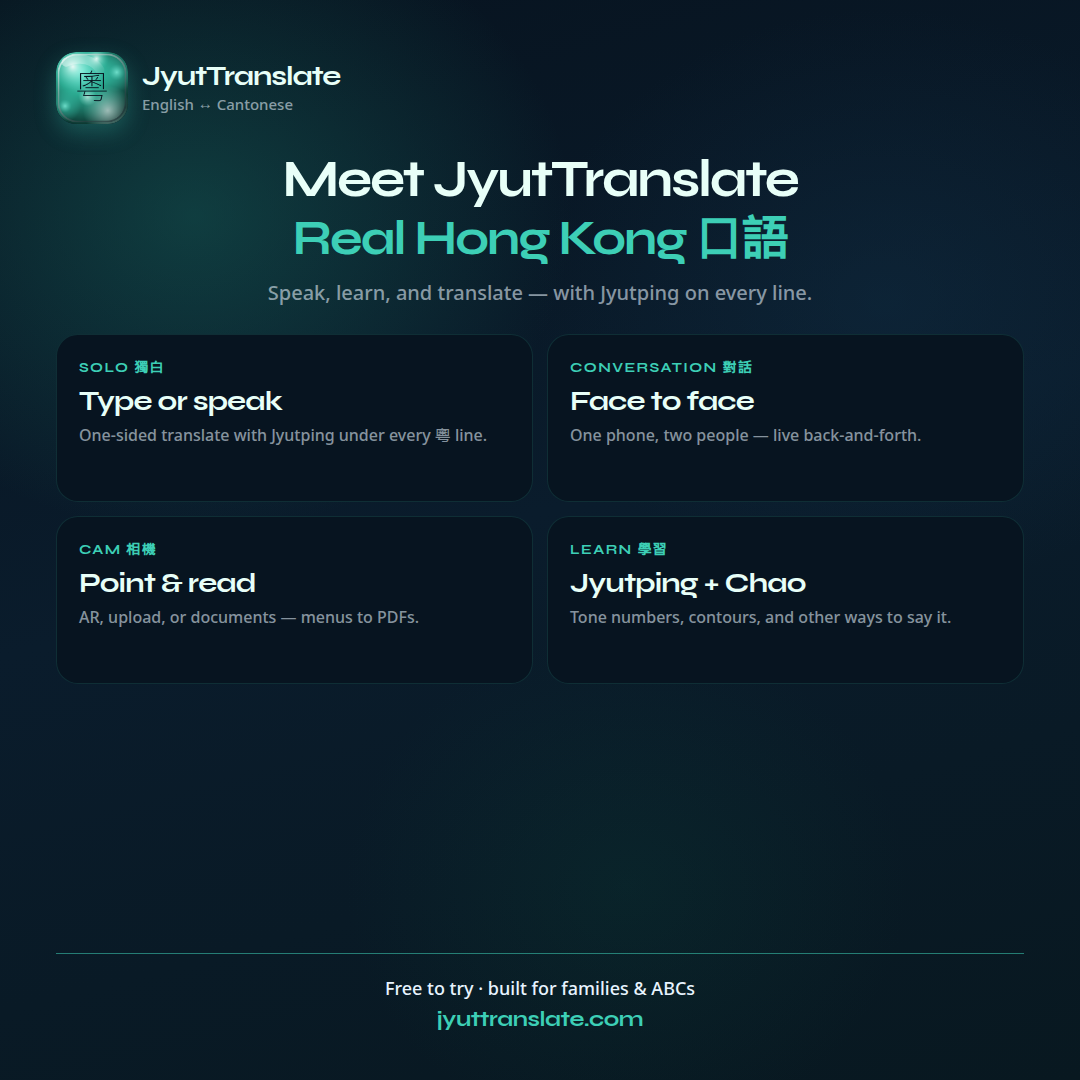
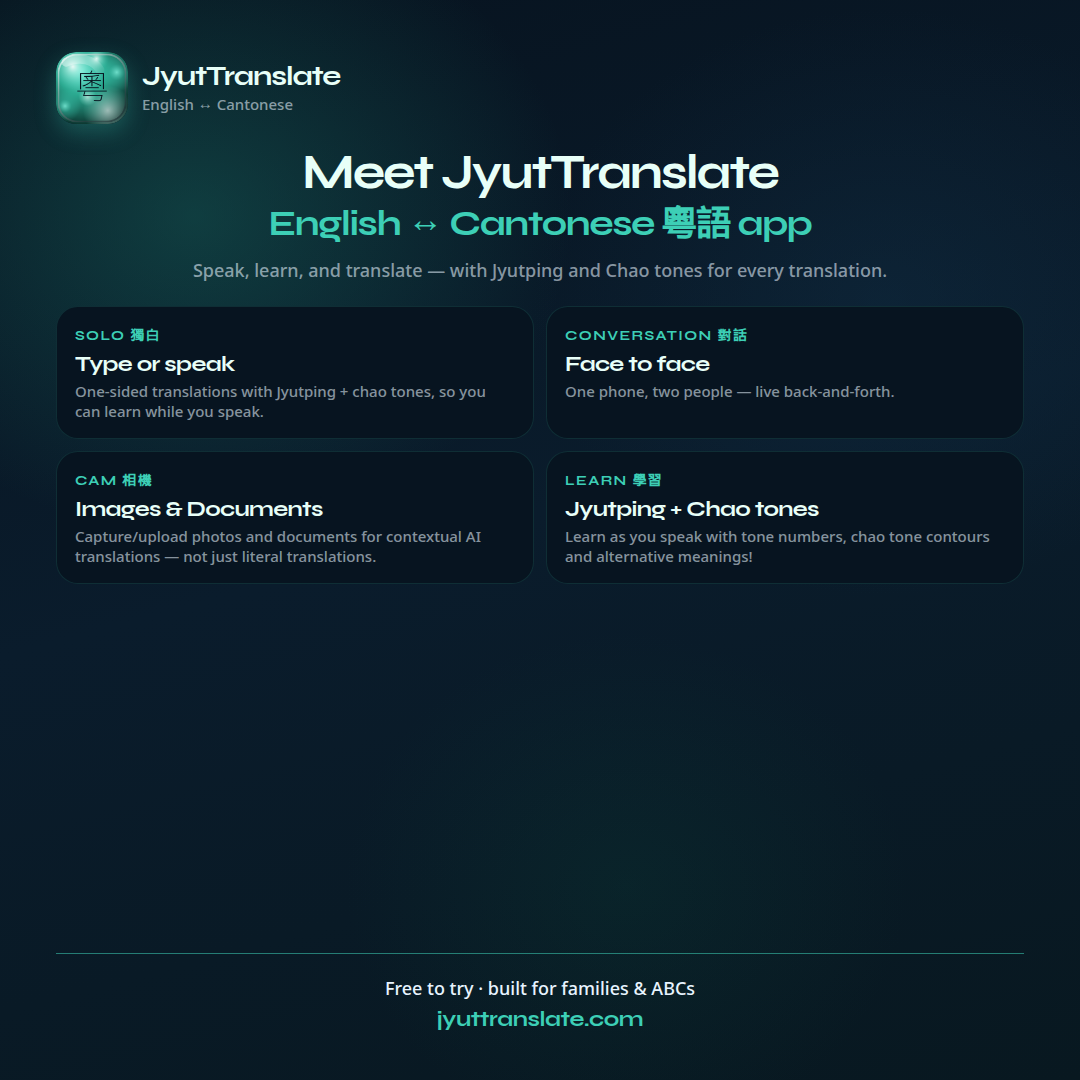
Revise intro IG copy: drop Real Hong Kong, clarify modes.
Accent both formats to English ↔ Cantonese 粵語 app; tighten square tile copy for Cam/Learn density; portrait uses 婆婆 vs 書面 and Cam file types.

Changed region(s): [[0.0611, 0.1222, 0.825, 0.5806], [0.5194, 0.3056, 0.9167, 0.5806]]

diff --git a/docs/social/ig-posts/intro-square.html b/docs/social/ig-posts/intro-square.html
@@ -10,7 +10,7 @@
   <body>
     <div class="font-preload" aria-hidden="true">
       <span class="font-preload-syne">JyutTranslate Meet J</span>
-      <span class="font-preload-hk">粵獨白對話相機口語粵拼你返唔返嚟食飯㗎</span>
+      <span class="font-preload-hk">粵獨白對話相機口語粵拼學習書面語婆婆</span>
       <span class="font-preload-noto">ABCDEFGHIJKLMNOPQRSTUVWXYZabcdefghijklmnopqrstuvwxyz0123456789↔</span>
     </div>
 
@@ -25,15 +25,15 @@
 
       <div class="hero hero--intro">
         <h1>Meet JyutTranslate</h1>
-        <div class="accent">Real Hong Kong 口語</div>
-        <p>Speak, learn, and translate — with Jyutping on every line.</p>
+        <div class="accent">English ↔ Cantonese 粵語 app</div>
+        <p>Speak, learn, and translate — with Jyutping and Chao tones for every translation.</p>
       </div>
 
       <div class="mode-grid" aria-label="App modes">
         <div class="mode-tile">
           <div class="mode-kicker">Solo 獨白</div>
           <div class="mode-title">Type or speak</div>
-          <p>One-sided translate with Jyutping under every 粵 line.</p>
+          <p>One-sided translations with Jyutping + chao tones, so you can learn while you speak.</p>
         </div>
         <div class="mode-tile">
           <div class="mode-kicker">Conversation 對話</div>
@@ -42,13 +42,13 @@
         </div>
         <div class="mode-tile">
           <div class="mode-kicker">Cam 相機</div>
-          <div class="mode-title">Point &amp; read</div>
-          <p>AR, upload, or documents — menus to PDFs.</p>
+          <div class="mode-title">Images &amp; Documents</div>
+          <p>Capture/upload photos and documents for contextual AI translations — not just literal translations.</p>
         </div>
         <div class="mode-tile">
           <div class="mode-kicker">Learn 學習</div>
-          <div class="mode-title">Jyutping + Chao</div>
-          <p>Tone numbers, contours, and other ways to say it.</p>
+          <div class="mode-title">Jyutping + Chao tones</div>
+          <p>Learn as you speak with tone numbers, chao tone contours and alternative meanings!</p>
         </div>
       </div>
 

diff --git a/docs/social/ig-posts/intro-portrait.html b/docs/social/ig-posts/intro-portrait.html
@@ -10,7 +10,7 @@
   <body>
     <div class="font-preload" aria-hidden="true">
       <span class="font-preload-syne">JyutTranslate Meet J</span>
-      <span class="font-preload-hk">粵獨白對話相機口語粵拼你返唔返嚟食飯㗎學習書面語係唔喺咗</span>
+      <span class="font-preload-hk">粵獨白對話相機口語粵拼你返唔返嚟食飯㗎學習書面語係唔喺咗婆婆</span>
       <span class="font-preload-noto">ABCDEFGHIJKLMNOPQRSTUVWXYZabcdefghijklmnopqrstuvwxyz0123456789↔</span>
     </div>
 
@@ -25,8 +25,8 @@
 
       <div class="hero">
         <h1>Meet JyutTranslate</h1>
-        <div class="accent">English ↔ Cantonese</div>
-        <p>The app for real Hong Kong 口語 — not textbook Chinese.</p>
+        <div class="accent">English ↔ Cantonese 粵語 app</div>
+        <p>Most apps give you 書面. We give you what 婆婆 is actually saying.</p>
       </div>
 
       <div class="feat-list">
@@ -34,7 +34,7 @@
           <div class="feat-dot" aria-hidden="true"></div>
           <div>
             <h3>Solo 獨白</h3>
-            <p>Type or speak one side. Jyutping + Chao tones under every Cantonese line.</p>
+            <p>Type or speak one side. Jyutping + Chao tones over every Cantonese line.</p>
           </div>
         </div>
         <div class="feat">
@@ -48,7 +48,7 @@
           <div class="feat-dot" aria-hidden="true"></div>
           <div>
             <h3>Cam 相機</h3>
-            <p>AR live view, photo upload, or documents — signs, menus, PDFs.</p>
+            <p>AR Cam capture, photo upload, or documents — signs, menus, PDFs, XLSX, PPTX, and more!</p>
           </div>
         </div>
         <div class="feat">

diff --git a/docs/social/ig-posts/shared.css b/docs/social/ig-posts/shared.css
@@ -435,26 +435,38 @@ body {
 
 /* Intro post — 2×2 mode tiles (square) */
 .hero--intro {
-  margin-top: 28px;
+  margin-top: 24px;
 }
 
 .hero--intro h1 {
-  font-size: 52px;
+  font-size: 48px;
+}
+
+.hero--intro .accent {
+  font-size: 36px;
+  max-width: 920px;
+  margin-left: auto;
+  margin-right: auto;
+}
+
+.hero--intro p {
+  font-size: 18px;
+  max-width: 820px;
 }
 
 .mode-grid {
   display: grid;
   grid-template-columns: 1fr 1fr;
-  gap: 14px;
-  margin-top: 28px;
+  gap: 12px;
+  margin-top: 24px;
 }
 
 .mode-tile {
   border-radius: 22px;
-  padding: 22px 22px 20px;
+  padding: 18px 18px 16px;
   background: color-mix(in srgb, var(--harbor-mid) 72%, #000);
   border: 1px solid color-mix(in srgb, var(--jade) 14%, transparent);
-  min-height: 168px;
+  min-height: 0;
 }
 
 .mode-kicker {
@@ -467,19 +479,19 @@ body {
 }
 
 .mode-title {
-  margin-top: 10px;
+  margin-top: 8px;
   font-family: var(--font-display);
   font-weight: 700;
-  font-size: 28px;
+  font-size: 22px;
   letter-spacing: -0.03em;
   color: var(--ink-bright);
   line-height: 1.1;
 }
 
 .mode-tile p {
-  margin-top: 8px;
-  font-size: 16px;
-  line-height: 1.35;
+  margin-top: 6px;
+  font-size: 15px;
+  line-height: 1.32;
   font-weight: 500;
   color: var(--ink-mute);
 }
